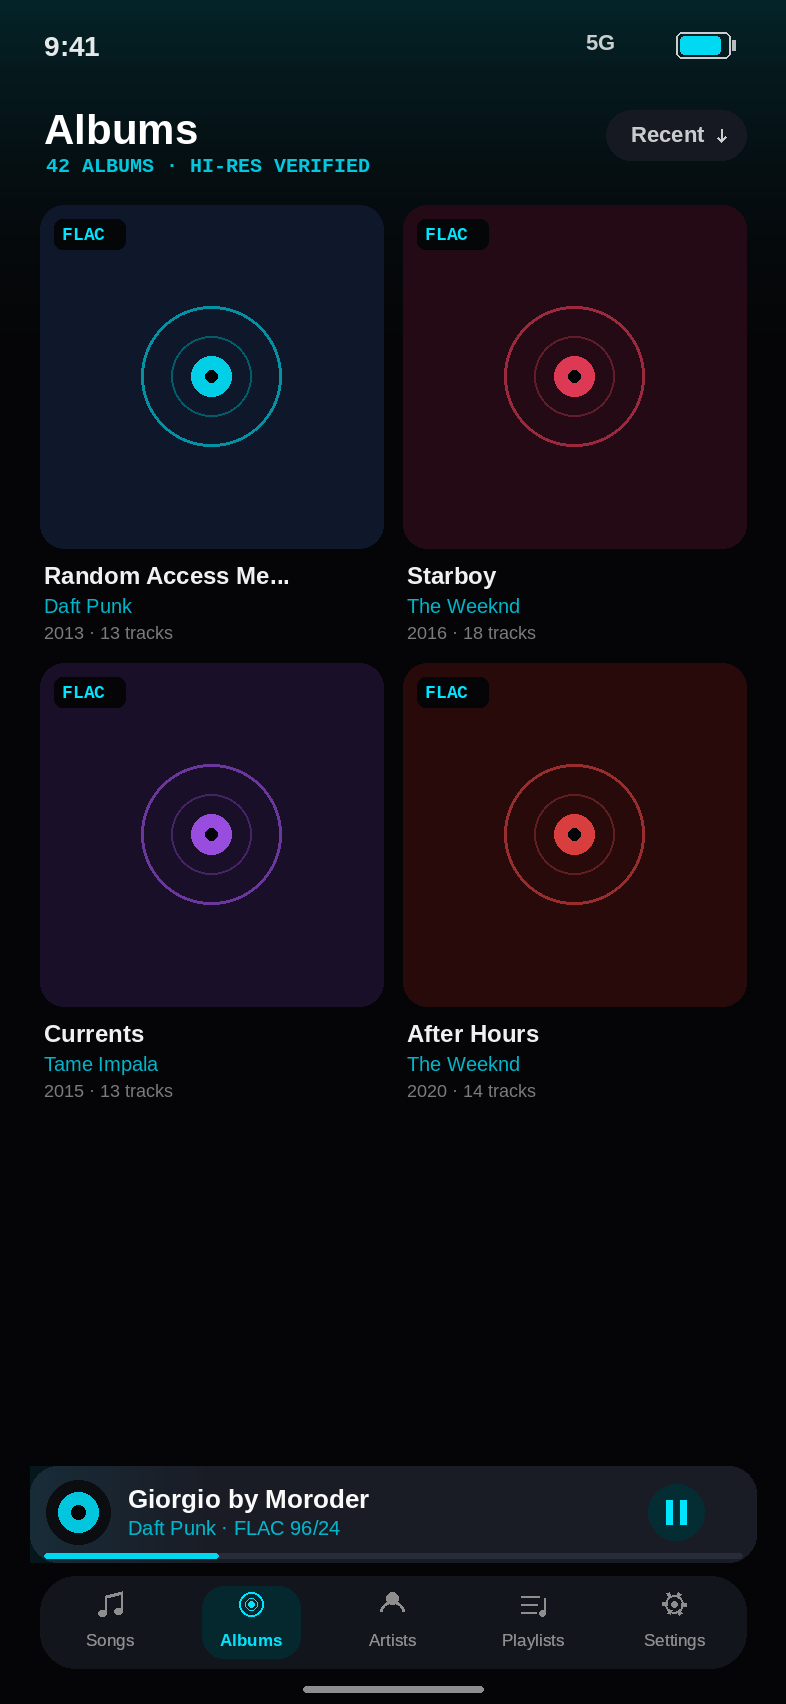
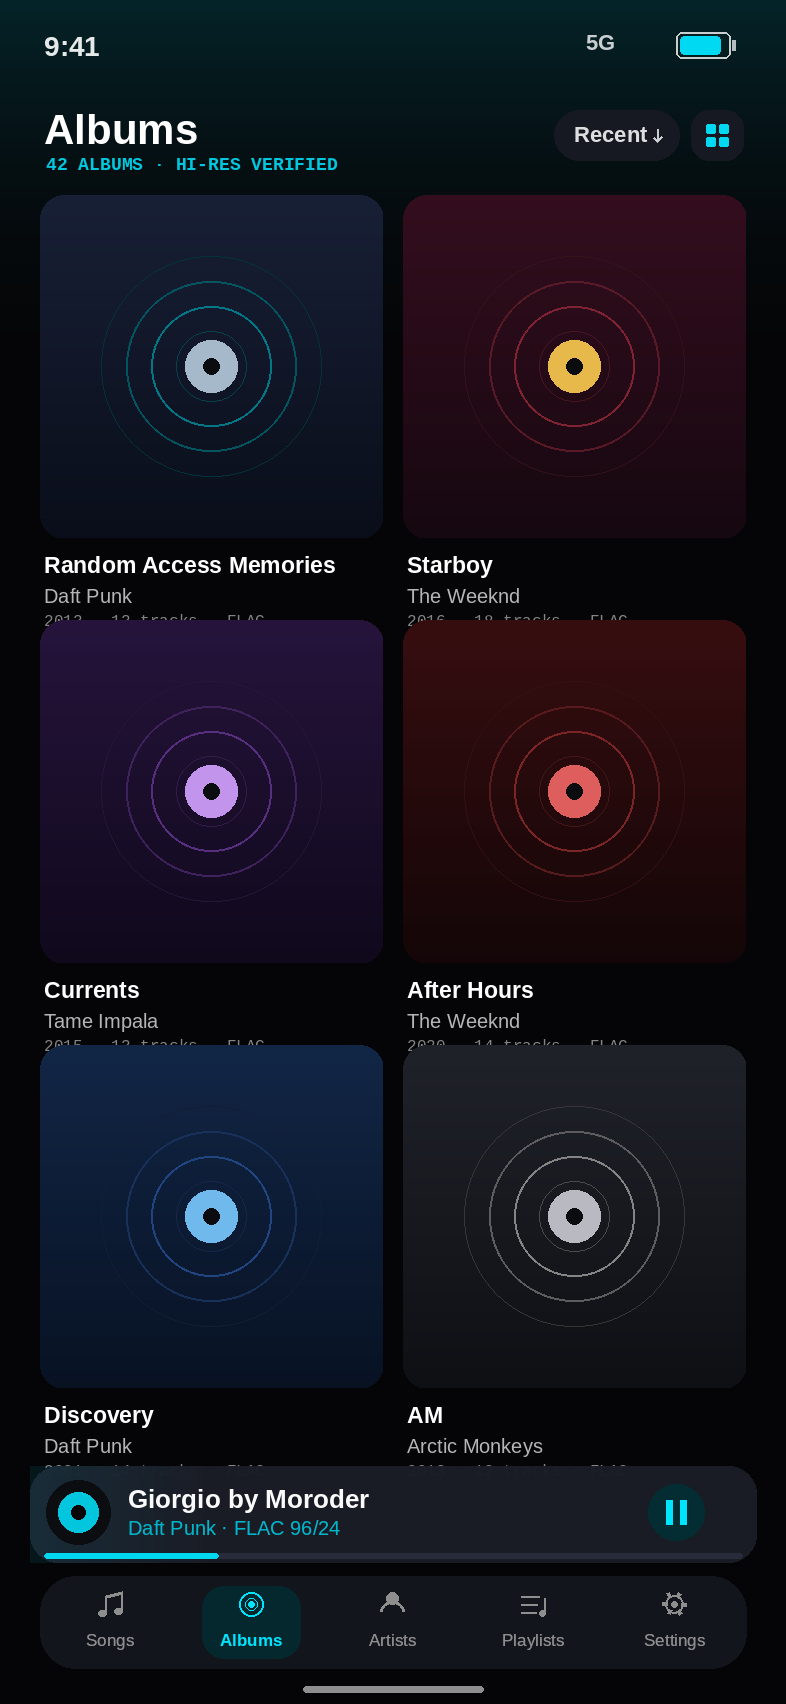
fix(ui): clean album artwork surfaces, title wrapping, color hierarchy, and grid density (UI Audit 02/42)

diff --git a/lib/shared/widgets/cards/album_card.dart b/lib/shared/widgets/cards/album_card.dart
@@ -108,7 +108,14 @@ class _AlbumCardState extends State<AlbumCard> {
     final cardRadius = BorderRadius.circular(16.0);
     final artworkRadius = BorderRadius.circular(16.0);
 
-    // 1:1 Album Artwork Sleeve with vinyl detailing
+    // Deterministic palette generation for procedural sleeve
+    final hash = (widget.title.hashCode ^ widget.artist.hashCode).abs();
+    final hue = (hash % 360).toDouble();
+    final sleeveBgStart = HSLColor.fromAHSL(1.0, hue, 0.35, isDark ? 0.18 : 0.92).toColor();
+    final sleeveBgEnd = HSLColor.fromAHSL(1.0, (hue + 40) % 360, 0.45, isDark ? 0.08 : 0.82).toColor();
+    final sleeveAccent = HSLColor.fromAHSL(1.0, hue, 0.70, isDark ? 0.65 : 0.45).toColor();
+
+    // 1:1 Album Artwork Sleeve with rich generative detailing
     Widget artworkPlaceholder = ClipRRect(
       borderRadius: artworkRadius,
       child: Container(
@@ -118,8 +125,8 @@ class _AlbumCardState extends State<AlbumCard> {
             begin: Alignment.topLeft,
             end: Alignment.bottomRight,
             colors: [
-              primary.withOpacity(isDark ? 0.35 : 0.25),
-              isDark ? const Color(0xFF1E2433) : const Color(0xFFE2E8F0),
+              sleeveBgStart,
+              sleeveBgEnd,
             ],
           ),
           boxShadow: [
@@ -155,7 +162,7 @@ class _AlbumCardState extends State<AlbumCard> {
               margin: const EdgeInsets.all(22.0),
             ),
 
-            // Center album badge
+            // Center album badge with sleeve accent
             Container(
               width: widget.mode == AlbumCardMode.grid ? 46.0 : 36.0,
               height: widget.mode == AlbumCardMode.grid ? 46.0 : 36.0,
@@ -164,7 +171,7 @@ class _AlbumCardState extends State<AlbumCard> {
                 color: surface.withOpacity(isDark ? 0.85 : 0.95),
                 boxShadow: [
                   BoxShadow(
-                    color: primary.withOpacity(0.25),
+                    color: sleeveAccent.withOpacity(0.35),
                     blurRadius: 10.0,
                   ),
                 ],
@@ -172,7 +179,7 @@ class _AlbumCardState extends State<AlbumCard> {
               child: Icon(
                 Icons.album,
                 size: widget.mode == AlbumCardMode.grid ? 28.0 : 22.0,
-                color: primary,
+                color: sleeveAccent,
               ),
             ),
           ],
@@ -210,12 +217,12 @@ class _AlbumCardState extends State<AlbumCard> {
                 color: onSurface,
                 letterSpacing: -0.2,
               ),
-              maxLines: 1,
+              maxLines: 2,
               overflow: TextOverflow.ellipsis,
             ),
-            const SizedBox(height: 2.0),
+            const SizedBox(height: 3.0),
             Text(
-              _resolvedSubtitle,
+              widget.artist,
               style: AppTypography.bodySmall.copyWith(
                 color: onSurfaceVariant,
                 fontSize: 12.0,
@@ -224,26 +231,16 @@ class _AlbumCardState extends State<AlbumCard> {
               overflow: TextOverflow.ellipsis,
             ),
             if (widget.trackCount != null && widget.trackCount! > 0) ...[
-              const SizedBox(height: 6.0),
-              Container(
-                padding: const EdgeInsets.symmetric(
-                  horizontal: 7.0,
-                  vertical: 2.5,
+              const SizedBox(height: 4.0),
+              Text(
+                '${widget.year != null ? '${widget.year} • ' : ''}${widget.trackCount == 1 ? '1 track' : '${widget.trackCount} tracks'} • FLAC',
+                style: (surfaceTokens.telemetryTextStyle ?? AppTypography.labelSmall).copyWith(
+                  color: onSurfaceVariant.withOpacity(0.65),
+                  fontWeight: FontWeight.w500,
+                  fontSize: 10.5,
                 ),
-                decoration: BoxDecoration(
-                  color: surfaceTokens.level2,
-                  borderRadius: BorderRadius.circular(6.0),
-                ),
-                child: Text(
-                  widget.trackCount == 1 ? '1 Track' : '${widget.trackCount} Tracks',
-                  style: (surfaceTokens.telemetryTextStyle ?? AppTypography.labelSmall).copyWith(
-                    color: primary,
-                    fontWeight: FontWeight.w600,
-                    fontSize: 10.5,
-                  ),
-                  maxLines: 1,
-                  overflow: TextOverflow.ellipsis,
-                ),
+                maxLines: 1,
+                overflow: TextOverflow.ellipsis,
               ),
             ],
           ],

diff --git a/lib/features/library/presentation/screens/albums_tab_screen.dart b/lib/features/library/presentation/screens/albums_tab_screen.dart
@@ -34,12 +34,12 @@ class _AlbumsTabScreenState extends ConsumerState<AlbumsTabScreen> {
       case 1:
         return 1.15;
       case 2:
-        return 0.74;
+        return 0.67;
       case 3:
-        return 0.70;
+        return 0.64;
       case 4:
       default:
-        return 0.66;
+        return 0.60;
     }
   }
 
@@ -77,7 +77,25 @@ class _AlbumsTabScreenState extends ConsumerState<AlbumsTabScreen> {
           backgroundColor: Colors.transparent,
           extendBodyBehindAppBar: true,
           appBar: GlassAppBar(
-            titleText: 'Albums',
+            title: Column(
+              crossAxisAlignment: CrossAxisAlignment.start,
+              mainAxisSize: MainAxisSize.min,
+              children: [
+                const Text('Albums', style: AppTypography.titleLarge),
+                albumsAsync.maybeWhen(
+                  data: (albums) => Text(
+                    '${albums.length} ALBUMS · HI-RES VERIFIED',
+                    style: AppTypography.labelSmall.copyWith(
+                      color: Theme.of(context).colorScheme.primary.withOpacity(0.85),
+                      fontWeight: FontWeight.w600,
+                      letterSpacing: 0.5,
+                      fontSize: 10.5,
+                    ),
+                  ),
+                  orElse: () => const SizedBox.shrink(),
+                ),
+              ],
+            ),
             automaticallyImplyLeading: false,
             actions: [
               IconButton(
